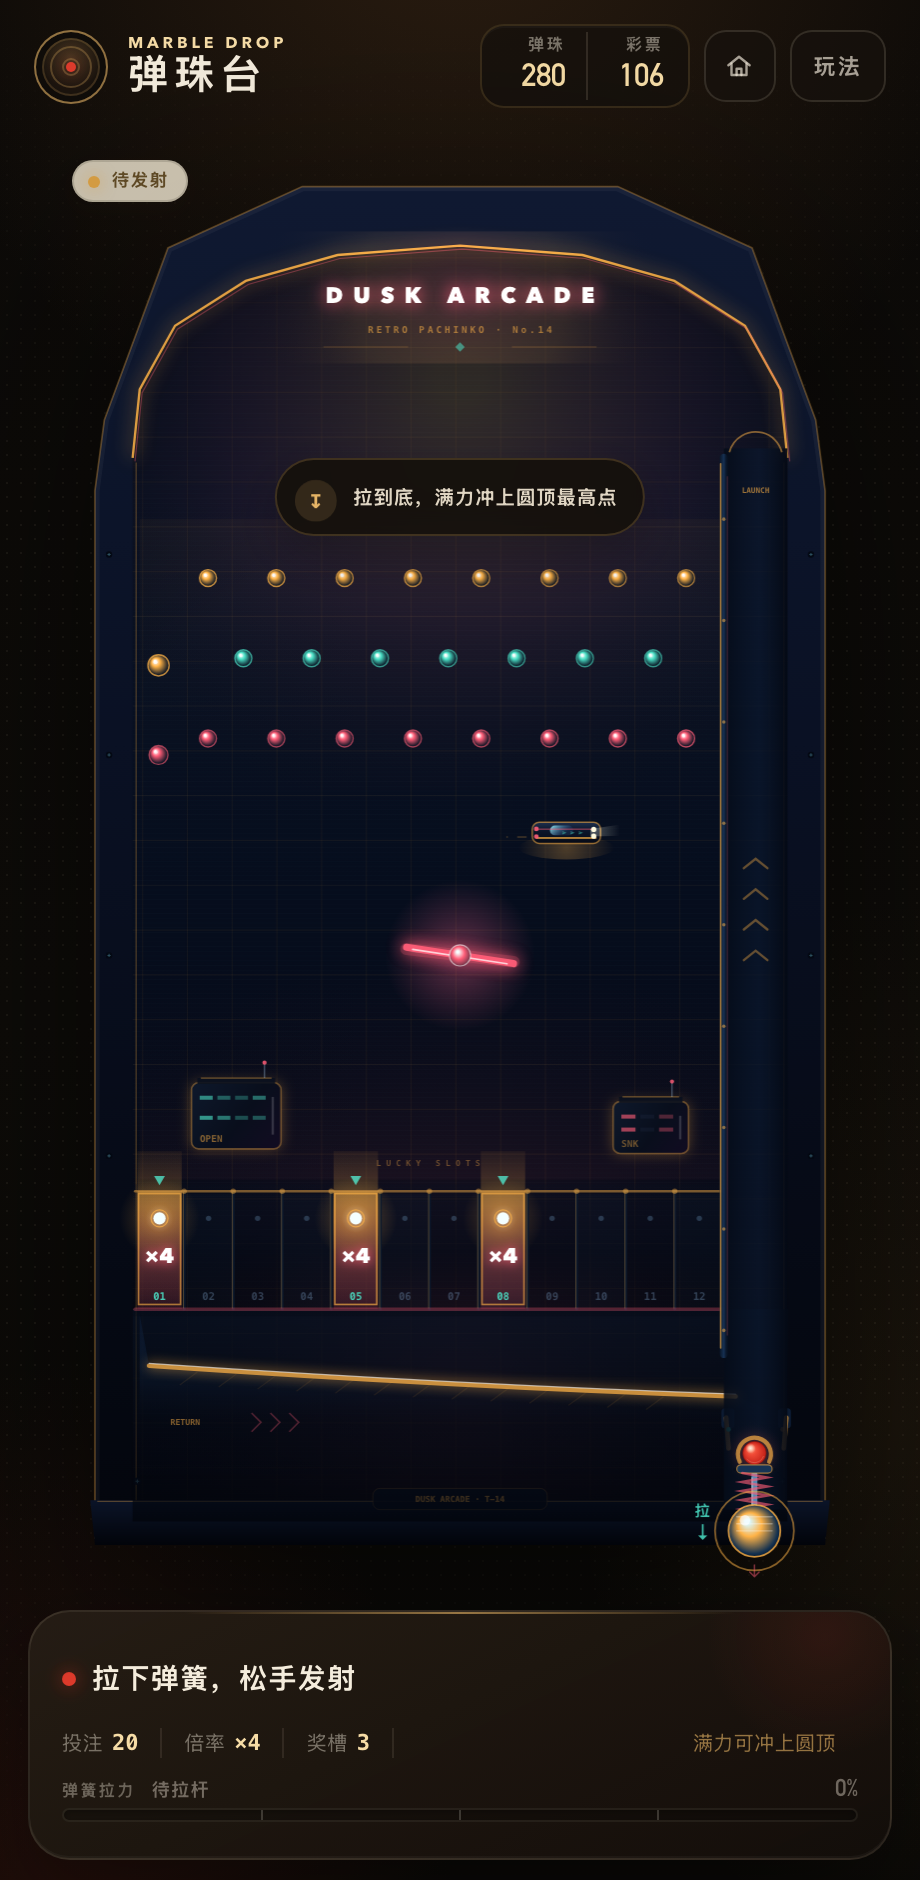
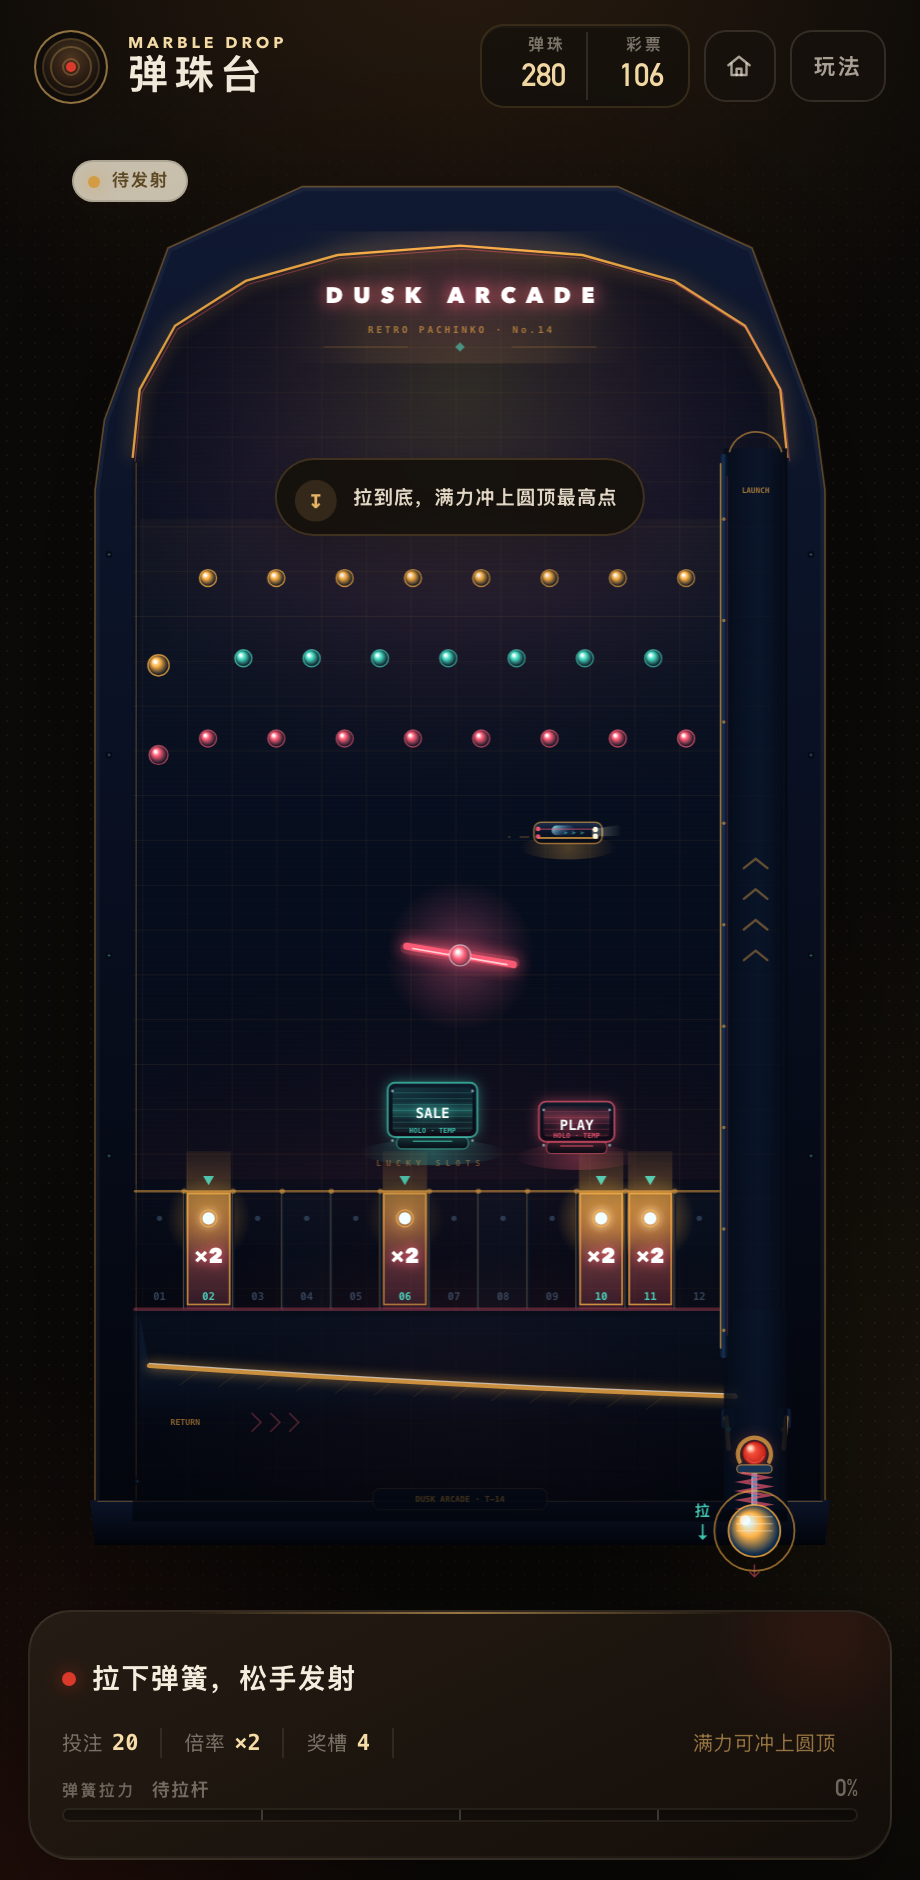
fix: replace dusk buildings with per-round holographic boards

Changed region(s): [[0.3348, 0.5553, 0.7609, 0.7096], [0.1217, 0.5553, 0.3348, 0.7096], [0.6391, 0.4319, 0.6696, 0.4628]]

diff --git a/src/game/obstacles.js b/src/game/obstacles.js
@@ -13,7 +13,7 @@
    ============================================================ */
 
 import { MAIN_RIGHT } from "./config.js";
-import { clamp } from "./utils.js";
+import { clamp, randomRange } from "./utils.js";
 
 const TAU = Math.PI * 2;
 const randomRangeKick = (scale) => (Math.random() * 2 - 1) * scale;
@@ -141,6 +141,7 @@ export function buildObstacles(specs = []) {
           radius: Math.max(0, Number(spec.radius) || 0),
           restitution: Number(spec.restitution) || 0.34,
           flash: 0,
+          spawn: 0,
           lastEventAt: 0,
         };
     }
@@ -154,6 +155,7 @@ export function buildObstacles(specs = []) {
 export function resetObstacles(obstacles = []) {
   for (const obstacle of obstacles) {
     obstacle.flash = 0;
+    obstacle.spawn = 0;
     obstacle.lastEventAt = 0;
     if (obstacle.type === "mover") {
       obstacle.progress = clamp(Number(obstacle.offset) || 0, 0, 1) * obstacle.total;
@@ -175,10 +177,61 @@ export function resetObstacles(obstacles = []) {
   }
 }
 
+/**
+ * Reposition blocks that opt into `randomX` at the start of a round. This is
+ * used by the budget table's holographic ad boards: they are temporary props,
+ * not buildings, so moving between rounds is part of their fiction.
+ */
+export function randomizeObstacles(obstacles = []) {
+  const movable = obstacles.filter(
+    (obstacle) => obstacle.type === "block" && obstacle.randomX,
+  );
+  if (!movable.length) return;
+
+  const placed = [];
+  for (const obstacle of movable) {
+    const halfWidth = obstacle.w / 2;
+    const min = Math.max(Number(obstacle.randomX.min) || 0, 82 + halfWidth);
+    const max = Math.min(Number(obstacle.randomX.max) || MAIN_RIGHT, MAIN_RIGHT - halfWidth);
+    const gap = Number(obstacle.randomGap) || 20;
+    let x = (min + max) / 2;
+    let found = false;
+    let best = x;
+    let bestDistance = -Infinity;
+
+    for (let attempt = 0; attempt < 48; attempt += 1) {
+      const candidate = min + Math.random() * Math.max(0, max - min);
+      const nearest = placed.reduce(
+        (distance, other) => Math.min(distance, Math.abs(candidate - other.x)),
+        Infinity,
+      );
+      const clear = placed.every(
+        (other) => Math.abs(candidate - other.x) >= (obstacle.w + other.w) / 2 + gap,
+      );
+      if (clear) {
+        x = candidate;
+        found = true;
+        break;
+      }
+      if (nearest > bestDistance) {
+        bestDistance = nearest;
+        best = candidate;
+      }
+    }
+    if (!found) x = best;
+
+    obstacle.x = x;
+    obstacle.spawn = 1;
+    obstacle.flash = 0.7;
+    placed.push(obstacle);
+  }
+}
+
 export function updateObstacles(obstacles = [], dt) {
   if (!(dt > 0)) return;
   for (const obstacle of obstacles) {
     if (obstacle.flash > 0) obstacle.flash = Math.max(0, obstacle.flash - dt * 3.4);
+    if (obstacle.spawn > 0) obstacle.spawn = Math.max(0, obstacle.spawn - dt * 1.6);
 
     if (obstacle.type === "mover") {
       const previousX = obstacle.x;
@@ -653,6 +706,139 @@ function drawTower(ctx, obstacle, now, palette) {
   ctx.restore();
 }
 
+/** Holographic ad board used by the budget table. It is a temporary prop,
+    not a building, so it is re-projected at a new street position each round. */
+function drawBillboard(ctx, obstacle, now, palette) {
+  const w = obstacle.w;
+  const h = obstacle.h;
+  const accent = obstacle.accent || palette.primary;
+  const rgb = hexToRgb(accent);
+  const spawn = clamp(obstacle.spawn || 0, 0, 1);
+  const flicker = 0.76 + Math.sin(now * 0.008 + obstacle.x) * 0.14;
+
+  ctx.save();
+  ctx.translate(obstacle.x, obstacle.y);
+
+  // Projection beam above the screen while it is materialising.
+  if (spawn > 0.01) {
+    const beam = ctx.createLinearGradient(0, -h / 2 - 96, 0, -h / 2);
+    beam.addColorStop(0, `rgba(${rgb}, 0)`);
+    beam.addColorStop(0.72, `rgba(${rgb}, ${0.2 * spawn})`);
+    beam.addColorStop(1, `rgba(${rgb}, ${0.44 * spawn})`);
+    ctx.fillStyle = beam;
+    ctx.beginPath();
+    ctx.moveTo(-w * 0.32, -h / 2 - 96);
+    ctx.lineTo(w * 0.32, -h / 2 - 96);
+    ctx.lineTo(w * 0.48, -h / 2);
+    ctx.lineTo(-w * 0.48, -h / 2);
+    ctx.closePath();
+    ctx.fill();
+  }
+
+  // Floor glow / projector base.
+  const floor = ctx.createRadialGradient(0, h / 2 + 3, 1, 0, h / 2 + 3, w * 0.8);
+  floor.addColorStop(0, `rgba(${rgb}, ${0.3 + flashLike(obstacle) * 0.2})`);
+  floor.addColorStop(1, `rgba(${rgb}, 0)`);
+  ctx.fillStyle = floor;
+  ctx.beginPath();
+  ctx.ellipse(0, h / 2 + 3, w * 0.8, 11, 0, 0, TAU);
+  ctx.fill();
+
+  // Base bar.
+  ctx.fillStyle = "rgba(7, 10, 20, 0.96)";
+  roundRectPath(ctx, -w * 0.4, h / 2 - 10, w * 0.8, 10, 4);
+  ctx.fill();
+  ctx.strokeStyle = `rgba(${rgb}, 0.5)`;
+  ctx.lineWidth = 1;
+  ctx.stroke();
+  ctx.fillStyle = `rgba(${rgb}, ${0.6 + spawn * 0.3})`;
+  ctx.fillRect(-w * 0.22, h / 2 - 7, w * 0.44, 1.2);
+
+  // Screen frame.
+  ctx.save();
+  ctx.shadowColor = `rgba(${rgb}, 0.5)`;
+  ctx.shadowBlur = 14 + spawn * 16;
+  const frame = ctx.createLinearGradient(0, -h / 2, 0, h / 2 - 10);
+  frame.addColorStop(0, "rgba(13, 26, 42, 0.98)");
+  frame.addColorStop(0.55, "rgba(7, 13, 27, 0.98)");
+  frame.addColorStop(1, "rgba(17, 9, 22, 0.98)");
+  ctx.fillStyle = frame;
+  roundRectPath(ctx, -w / 2, -h / 2, w, h - 10, 6);
+  ctx.fill();
+  ctx.restore();
+
+  ctx.strokeStyle = `rgba(${rgb}, ${0.62 + flashLike(obstacle) * 0.3})`;
+  ctx.lineWidth = 1.6;
+  roundRectPath(ctx, -w / 2, -h / 2, w, h - 10, 6);
+  ctx.stroke();
+
+  // Screen content.
+  ctx.save();
+  roundRectPath(ctx, -w / 2 + 4, -h / 2 + 4, w - 8, h - 18, 4);
+  ctx.clip();
+  const screen = ctx.createLinearGradient(-w / 2, -h / 2, w / 2, h / 2);
+  screen.addColorStop(0, `rgba(${rgb}, ${0.2 * flicker})`);
+  screen.addColorStop(0.55, `rgba(${rgb}, 0.06)`);
+  screen.addColorStop(1, `rgba(${rgb}, ${0.16 * flicker})`);
+  ctx.fillStyle = screen;
+  ctx.fillRect(-w / 2, -h / 2, w, h - 10);
+
+  // Animated scan bars.
+  const scanY = -h / 2 + ((now * 0.045 + obstacle.x * 3) % (h - 10));
+  const scan = ctx.createLinearGradient(0, scanY - 8, 0, scanY + 8);
+  scan.addColorStop(0, `rgba(${rgb}, 0)`);
+  scan.addColorStop(0.5, `rgba(${rgb}, 0.28)`);
+  scan.addColorStop(1, `rgba(${rgb}, 0)`);
+  ctx.fillStyle = scan;
+  ctx.fillRect(-w / 2, scanY - 8, w, 16);
+
+  ctx.fillStyle = `rgba(${rgb}, 0.18)`;
+  for (let y = -h / 2 + 8; y < h / 2 - 12; y += 5) {
+    ctx.fillRect(-w / 2 + 4, y, w - 8, 1);
+  }
+
+  ctx.fillStyle = "#f8ffff";
+  ctx.font = '900 12px "SFMono-Regular", monospace';
+  ctx.textAlign = "center";
+  ctx.textBaseline = "middle";
+  ctx.shadowColor = accent;
+  ctx.shadowBlur = 12;
+  ctx.fillText(obstacle.sign || "AD", 0, -1);
+  ctx.restore();
+
+  ctx.fillStyle = `rgba(${rgb}, 0.8)`;
+  ctx.font = '700 6px "SFMono-Regular", monospace';
+  ctx.textAlign = "center";
+  ctx.textBaseline = "middle";
+  ctx.fillText("HOLO · TEMP", 0, h / 2 - 15);
+
+  // Small corner screws / clamps.
+  for (const sx of [-1, 1]) {
+    for (const sy of [-1, 1]) {
+      ctx.fillStyle = "rgba(210, 245, 255, 0.55)";
+      ctx.beginPath();
+      ctx.arc(sx * (w / 2 - 4), sy * (h / 2 - 7), 1.2, 0, TAU);
+      ctx.fill();
+    }
+  }
+
+  // Impact flash ring.
+  const flash = Math.max(obstacle.flash || 0, 0);
+  if (flash > 0.02) {
+    ctx.strokeStyle = `rgba(255, 255, 255, ${flash * 0.7})`;
+    ctx.lineWidth = 2;
+    ctx.beginPath();
+    ctx.arc(0, 0, Math.max(w, h) * 0.58 + (1 - flash) * 20, 0, TAU);
+    ctx.stroke();
+  }
+
+  ctx.restore();
+}
+
+function flashLike(obstacle) {
+  return Math.max(obstacle.flash || 0, obstacle.spawn || 0);
+}
+
 function drawCar(ctx, obstacle, now, palette) {
   const w = obstacle.w;
   const h = obstacle.h;
@@ -1036,7 +1222,10 @@ export function drawObstacles(ctx, obstacles = [], now, palette = {}, options = 
   }
 
   for (const obstacle of obstacles) {
-    if (obstacle.type === "block") drawTower(ctx, obstacle, now, colors);
+    if (obstacle.type === "block") {
+      if (obstacle.style === "billboard") drawBillboard(ctx, obstacle, now, colors);
+      else drawTower(ctx, obstacle, now, colors);
+    }
   }
   for (const obstacle of obstacles) {
     if (obstacle.type === "rotor") drawRotor(ctx, obstacle, now);

diff --git a/src/game/tablePreview.js b/src/game/tablePreview.js
@@ -186,25 +186,41 @@ export function drawTablePreview(canvas, table) {
       ctx.stroke();
     } else if (obstacle.type === "block") {
       const color = obstacle.accent || primary;
-      ctx.fillStyle = "rgba(8, 16, 32, 0.96)";
-      roundRectPath(
-        ctx,
-        obstacle.x - obstacle.w / 2,
-        obstacle.y - obstacle.h / 2,
-        obstacle.w,
-        obstacle.h,
-        obstacle.radius,
-      );
-      ctx.fill();
-      ctx.strokeStyle = color;
-      ctx.lineWidth = 2.4;
-      ctx.stroke();
-      ctx.fillStyle = color;
-      ctx.globalAlpha = 0.28;
-      for (let wy = obstacle.y - obstacle.h / 2 + 8; wy < obstacle.y + obstacle.h / 2 - 8; wy += 13) {
-        ctx.fillRect(obstacle.x - obstacle.w / 2 + 7, wy, obstacle.w - 14, 3);
+      const left = obstacle.x - obstacle.w / 2;
+      const top = obstacle.y - obstacle.h / 2;
+      if (obstacle.style === "billboard") {
+        // Holographic ad board: dark screen, neon frame and a small base.
+        ctx.fillStyle = "rgba(6, 12, 24, 0.96)";
+        roundRectPath(ctx, left, top, obstacle.w, obstacle.h - 7, 5);
+        ctx.fill();
+        ctx.strokeStyle = color;
+        ctx.lineWidth = 2.2;
+        ctx.stroke();
+        ctx.fillStyle = color;
+        ctx.globalAlpha = 0.32;
+        ctx.fillRect(left + 6, top + 8, obstacle.w - 12, obstacle.h - 25);
+        ctx.globalAlpha = 1;
+        ctx.fillStyle = "rgba(7, 10, 20, 0.98)";
+        ctx.fillRect(left + 7, top + obstacle.h - 9, obstacle.w - 14, 6);
+        ctx.font = '700 11px "SFMono-Regular", monospace';
+        ctx.textAlign = "center";
+        ctx.textBaseline = "middle";
+        ctx.fillStyle = "rgba(255,255,255,0.8)";
+        ctx.fillText(obstacle.sign || "AD", obstacle.x, top + obstacle.h / 2 - 3);
+      } else {
+        ctx.fillStyle = "rgba(8, 16, 32, 0.96)";
+        roundRectPath(ctx, left, top, obstacle.w, obstacle.h, obstacle.radius);
+        ctx.fill();
+        ctx.strokeStyle = color;
+        ctx.lineWidth = 2.4;
+        ctx.stroke();
+        ctx.fillStyle = color;
+        ctx.globalAlpha = 0.28;
+        for (let wy = top + 8; wy < top + obstacle.h - 8; wy += 13) {
+          ctx.fillRect(left + 7, wy, obstacle.w - 14, 3);
+        }
+        ctx.globalAlpha = 1;
       }
-      ctx.globalAlpha = 1;
     } else if (obstacle.type === "rotor") {
       ctx.save();
       ctx.translate(obstacle.x, obstacle.y);

diff --git a/src/game/tables.js b/src/game/tables.js
@@ -351,26 +351,32 @@ const DUSK_OBSTACLES = [
   },
   {
     type: "block",
+    style: "billboard",
     x: 170,
     y: 836,
     w: 76,
     h: 56,
     radius: 6,
     seed: 11,
+    randomX: { min: 126, max: 540 },
+    randomGap: 24,
     accent: "#4be0c6",
-    sign: "OPEN",
+    sign: "SALE",
     roofBounce: 80,
   },
   {
     type: "block",
+    style: "billboard",
     x: 522,
     y: 846,
     w: 64,
     h: 44,
     radius: 6,
     seed: 12,
+    randomX: { min: 126, max: 540 },
+    randomGap: 24,
     accent: "#ff5e78",
-    sign: "SNK",
+    sign: "PLAY",
     roofBounce: 70,
   },
 ];
@@ -407,12 +413,12 @@ const DEFINITIONS = [
     en: "DUSK ARCADE",
     tagline: "街角电玩店的旧机台，机关更少，落点更直白。",
     description:
-      "一台缓慢巡逻的小车、一块常转的霓虹招牌和两座矮楼。没有飞行汽车列队和传送门，适合想轻松投珠的玩家。",
+      "一台缓慢巡逻的小车、一块常转的霓虹招牌和两块每局随机换位的全息广告牌。没有飞行汽车列队和传送门，适合想轻松投珠的玩家。",
     price: 14,
     currency: "tickets",
     art: "cyberpunk",
     variant: "retro",
-    features: ["单层巡逻车", "小型转子", "基础钉阵"],
+    features: ["单层巡逻车", "小型转子", "随机全息牌"],
     palette: {
       primary: "#ffb347",
       secondary: "#ff5e78",

diff --git a/src/game/engine.js b/src/game/engine.js
@@ -39,6 +39,7 @@ import { DEFAULT_TABLE_ID, TABLE_LIST, getTable, hexToRgb } from "./tables.js";
 import {
   buildObstacles,
   resetObstacles,
+  randomizeObstacles,
   updateObstacles,
   collideObstacles,
   drawObstacles,
@@ -1637,6 +1638,7 @@ function startRound() {
   game.returnAnim = null;
   game.returnPos = null;
   resetObstacles(obstacles);
+  randomizeObstacles(obstacles);
   particles.length = 0;
   ball.x = STAGE.x;
   ball.y = STAGE.y;
@@ -3941,6 +3943,7 @@ function simulateLaunch(power = 0.8) {
   let bestY = b.y;
   const totalSteps = 240 * 28;
   resetObstacles(obstacles);
+  randomizeObstacles(obstacles);
   for (let i = 0; i < totalSteps; i += 1) {
     updateObstacles(obstacles, 1 / 240);
     stepBallPhysics(b, 1 / 240);
@@ -3989,6 +3992,7 @@ function debugTrace(power = 0.8, sampleEvery = 15) {
   const points = [];
   let leftLane = false;
   resetObstacles(obstacles);
+  randomizeObstacles(obstacles);
   for (let i = 0; i < 240 * 20; i += 1) {
     updateObstacles(obstacles, 1 / 240);
     stepBallPhysics(b, 1 / 240);

diff --git a/README.md b/README.md
@@ -87,7 +87,7 @@ npm run check
 | 机台 | 价格 | 造型与障碍物 |
 | --- | --- | --- |
 | 橡木经典 · OAK CLASSIC | 免费 | 温润纸面、对称 10/9 钉阵、黄铜回球坡道 |
-| 黄昏电玩 · DUSK ARCADE | 14 彩票 | 低矮复古机柜、三排普通霓虹钉阵；一台缓慢单层巡逻车、一块常转招牌和两座矮楼。机关更少，落点更直白 |
+| 黄昏电玩 · DUSK ARCADE | 14 彩票 | 低矮复古机柜、三排普通霓虹钉阵；一台缓慢单层巡逻车、一块常转招牌和两块每局随机换位的全息广告牌。机关更少，落点更直白 |
 | 霓虹都市 · NEON CITY | 28 彩票 | 深色科技机柜；最上层 12 枚闪烁霓虹分流钉；中层两列飞行汽车各两辆，分别循环左→右和右→左；第三层 5 栋参差摩天楼与楼顶霓虹灯牌 |
 | 虫洞实验室 · WARP LAB | 40 彩票 | 梯形科技顶盖；两台主动转子、一台被动三叶转子、两枚弹射桩和一对左右相连的传送门 |
 
@@ -314,7 +314,7 @@ git push origin --delete feature/功能名      # 删除远端分支
 - 力度线性映射，满力可到达圆顶最高点。
 - 母球皮肤使用统一的 `skins.js` 数据源：渲染层、粒子系统和 WebAudio 合成器分别读取同一份定义，皮肤不参与物理计算。
 - 机台使用统一的 `tables.js` 数据源：物理层读取拱顶、钉子和障碍物配方；渲染层读取主题色与机台外观。机台切换只重建棋盘，不重置账号。
-- 黄昏电玩使用 `retro` 变体：保留少量机关和更简洁的机柜背景，作为低价入门机台；霓虹都市和虫洞实验室则是完整机关配置。
+- 黄昏电玩使用 `retro` 变体：保留少量机关和更简洁的机柜背景，作为低价入门机台；霓虹都市和虫洞实验室则是完整机关配置。它的两块全息广告牌通过 `randomX` 在每局开始时重新投影到随机街道位置，不会固定遮住同一组奖槽。
 - 圆形 / 胶囊 / 有向圆角矩形的碰撞都考虑障碍物表面速度；被动转子额外使用冲量力矩和阻尼，移动汽车可把母球推走。
 - 传送门带冷却、进入 / 离开重置和目标点速度保留，避免同一帧内反复传送。
 - 账号存档升级到 version 4，新增机台已拥有 / 当前装备字段；旧账号会自动补全默认机台。
